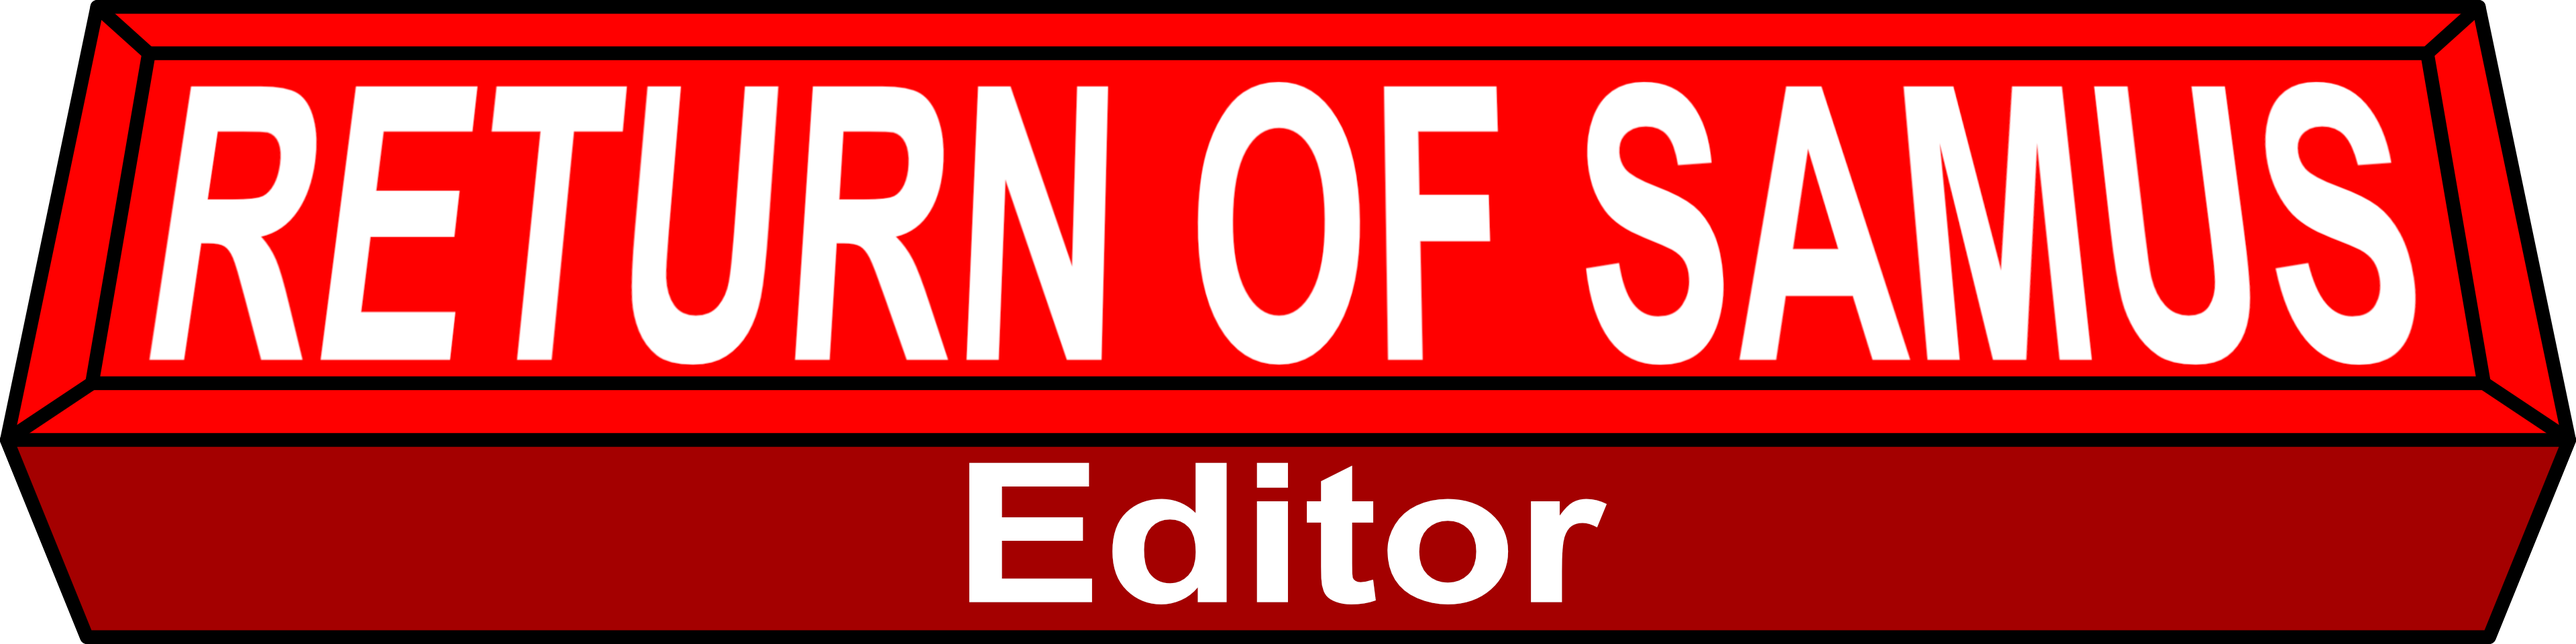
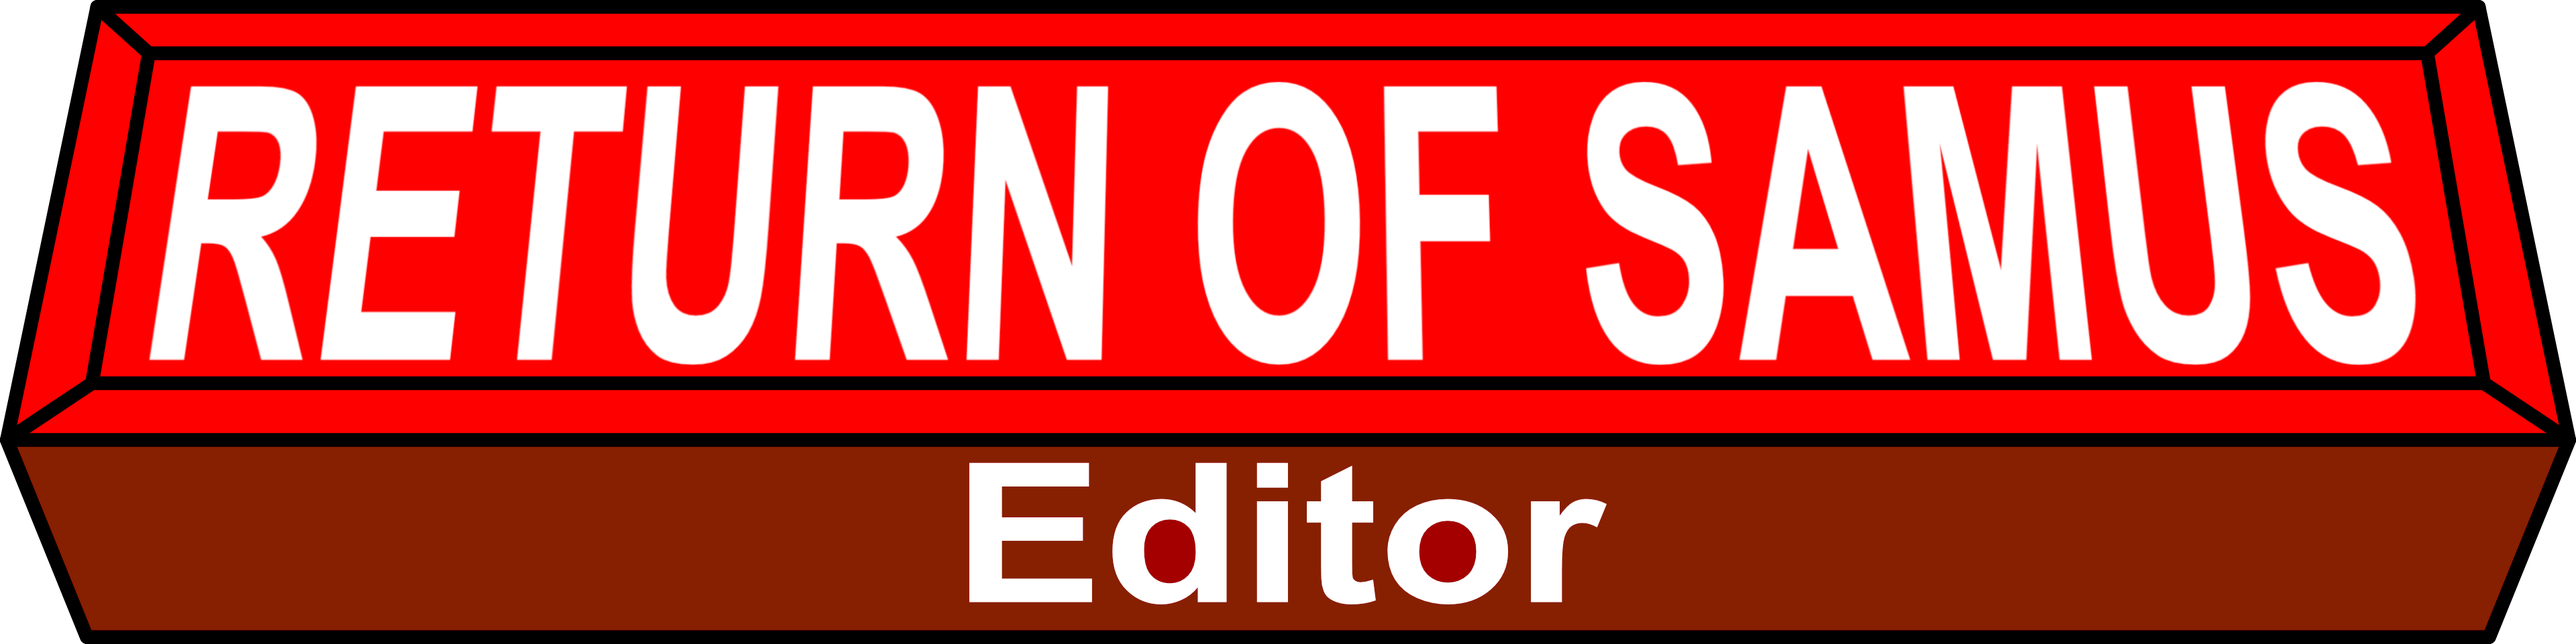
Add files via upload
made files add their name to the filename field on load, improved palette and general appearance.

Changed region(s): [[0.0, 0.6868, 1.0, 0.999]]

diff --git a/index.html b/index.html
@@ -17,14 +17,14 @@ body {
     <a href="https://liamnajor.github.io/ROSE-how-to"><img src="ROSE.png" id="icon" style="display: block;margin-left: auto;margin-right: auto;height: 70px"></a>
     <div id = "file manager" class="div" style = "position: absolute; top: 40px; left: 50px; border: 1px solid #000000; width: 329px; height: 276px;">
         <h2>File:</h2>
-        FileName:<textarea id = "filename"></textarea><br><br>Data
+        FileName:<textarea id = "filename" rows="1" cols="40"></textarea><br><br>Data
 <div id="divMain">
 </div><br>
         <input class="button" type = "button" id = "encode" value = "encode">
         <input class="button" type = "button" id = "decode" value = "decode" onclick = "decode()">        
         <input class="button" type = "button" id = "test" value = "play" onclick = "testhack()">
     </div>
-    <div class="div" style = "position: absolute; top: 330px; left: 50px; border: 1px solid #000000; width: 260px; height: 290px">
+    <div class="div" style = "position: absolute; top: 335px; left: 50px; border: 1px solid #000000; width: 260px; height: 290px">
     Bank:<select id = "bankselect">
         <option>9</option>
         <option>A</option>
@@ -34,7 +34,49 @@ body {
         <option>E</option>
         <option>F</option>
     </select><input class="button" type = "button" onClick="expandROM()" value="+"></input><br><canvas id = "edit" width = 256 height = 256></canvas></div>
-<div class="div" style = "position:absolute; top: 395px; right: 50px;border: 1px solid #000000; width: 260px; height: 170px" >Tileset:<select id = "tileset">
+
+<div id = "world" class="div" style = "display: block;margin-left: auto;margin-right: auto;border: 1px solid #000000; width: 260px; height: 295px">
+<br>    
+<canvas width = "256" height = "256" id = "roomedit"></canvas>
+    </div>
+
+ 
+    <div class="div" style = "position: absolute; right: 50px; top: 40px; border: 1px solid #000000; width: 286px; height: 350px">
+    <br>
+    Pointer: <textarea id = "pointers" cols="4"></textarea><br>
+    Scroll: <select id="scroll">
+<option value="00">Free Scroll</option>
+<option value="01">Stop Scrolling Right</option>
+<option value="02">Stop Scrolling Left</option>
+<option value="03">Vertical Shaft</option>
+<option value="04">Stop Scrolling Up</option>
+<option value="05">Stop Scrolling Up Right Corner</option>
+<option value="06">Stop Scrolling Up Left Corner</option>
+<option value="07">Vertical Shaft End Up</option>
+<option value="08">Stop Scrolling Down</option>
+<option value="09">Stop Scrolling Down Right</option>
+<option value="0a">Stop Scrolling Down Left</option>
+<option value="0b">Vertical Shaft End Down</option>
+<option value="0c">Hallway</option>
+<option value="0d">Hallway End Right</option>
+<option value="0e">Hallway End Left</option>
+<option value="0f">No Scroll</option></select><br>
+    Room Transition: <textarea id = "rtransition" cols="4"></textarea>
+    <br><br><b>Objects:</b><br>
+    enemy data pointer:<textarea id = "enemy-dat" cols="4"></textarea><br>
+    <input class = "buttonRight" type = "button" value = "delete object:" onclick="deleted()"><select id = "objselect">
+<option>0</option><option>1</option><option>2</option><option>3</option><option>4</option><option>5</option><option>6</option><option>7</option><option>8</option><option>9</option><option>10</option><option>11</option><option>12</option><option>13</option><option>14</option><option>15</option><!--<option>16</option><option>17</option><option>18</option><option>19</option><option>20</option><option>21</option><option>22</option><option>23</option><option>24</option><option>25</option><option>26</option><option>27</option><option>28</option><option>29</option><option>30</option><option>31</option><option>32</option>-->
+    </select><br><br>
+    <input class="buttonRight" type = "button" value = "View Object data" onclick="viewdat()">^<br>Mode: <div id="OBJData" style = "position: absolute; right: 0px; top: 220px; width: 200px; height: 64px">
+    </div><select id = "mode">
+    <option>Tile</option>
+    <option>Object</option>
+    <option>Samus</option>
+    </select><br>OBJ Type:<select id="OBJType"></select><br>OBJ ID:<textarea id="OBJID" rows="1" cols="2">00</textarea>
+    </div>
+    </div>
+
+<div class="div" style = "position:absolute; top: 410px; right: 50px;border: 1px solid #000000; width: 260px; height: 170px" >Tileset:<select id = "tileset">
         <option>9</option>
         <option>A</option>
         <option>B</option>
@@ -42,12 +84,7 @@ body {
         <option>D</option>
         <option>E</option>
         <option>F</option>
-    </select><br><canvas id = "tilesetimage" width = 256 height = 128></canvas></div>
-<div id = "world" class="div" style = "display: block;margin-left: auto;margin-right: auto;border: 1px solid #000000; width: 260px; height: 295px">
-<br>    
-<canvas width = "256" height = "256" id = "roomedit"></canvas>
-    </div>
-    
+    </select><br><canvas id = "tilesetimage" width = 256 height = 128></canvas></div> 
     
         <!--reference: http://upload.wikimedia.org/wikipedia/commons/9/93/Game_boy_pocket.png--><input class="button" type="button" id="showEmulator" value="Show Emulator" style="diplay:block; margin:auto" onclick = "showEmu()"></input>
       
@@ -55,7 +92,7 @@ body {
         <input class="button" type="button" value="Hide Emulator" style="margin:auto;" onclick = "hideEmu()"></input>
       <span id="on_off">OFF ! ! ON</span>
       
-      <input class="button" type="button" value="s" id="show" onclick="enableOnScreenButtons()" style="float: right; text-align: center;"><input class="button" type="button" value="h" id="hide" onclick="disableOnScreenButtons()" style="float: left; text-align: center;">
+      <input class="button" type="buttonRight" value="s" id="show" onclick="enableOnScreenButtons()" style="float: right; text-align: center;"><input class="button" type="button" value="h" id="hide" onclick="disableOnScreenButtons()" style="float: left; text-align: center;">
       <div id="screen_cover">
         <div id="canvas_container">
           <canvas id="mainCanvas">No Canvas Support</canvas>
@@ -101,42 +138,7 @@ body {
       </div>
    </div>
     
-    
-    <div class="div" style = "position: absolute; right: 50px; top: 40px; border: 1px solid #000000; width: 286px; height: 345px">
-    <br>
-    Pointer: <textarea id = "pointers"></textarea><br>
-    Scroll: <select id="scroll">
-<option value="00">Free Scroll</option>
-<option value="01">Stop Scrolling Right</option>
-<option value="02">Stop Scrolling Left</option>
-<option value="03">Vertical Shaft</option>
-<option value="04">Stop Scrolling Up</option>
-<option value="05">Stop Scrolling Up Right Corner</option>
-<option value="06">Stop Scrolling Up Left Corner</option>
-<option value="07">Vertical Shaft End Up</option>
-<option value="08">Stop Scrolling Down</option>
-<option value="09">Stop Scrolling Down Right</option>
-<option value="0a">Stop Scrolling Down Left</option>
-<option value="0b">Vertical Shaft End Down</option>
-<option value="0c">Hallway</option>
-<option value="0d">Hallway End Right</option>
-<option value="0e">Hallway End Left</option>
-<option value="0f">No Scroll</option></select><br>
-    Room Transition: <textarea id = "rtransition"></textarea>
-    <br><br><b>Objects:</b><br>
-    enemy data pointer:<textarea id = "enemy-dat"></textarea><br>
-    <input class = "button" type = "button" value = "delete object:" onclick="deleted()"><select id = "objselect">
-<option>0</option><option>1</option><option>2</option><option>3</option><option>4</option><option>5</option><option>6</option><option>7</option><option>8</option><option>9</option><option>10</option><option>11</option><option>12</option><option>13</option><option>14</option><option>15</option><!--<option>16</option><option>17</option><option>18</option><option>19</option><option>20</option><option>21</option><option>22</option><option>23</option><option>24</option><option>25</option><option>26</option><option>27</option><option>28</option><option>29</option><option>30</option><option>31</option><option>32</option>-->
-    </select><br><br>
-    <input class="button" type = "button" value = "View Object data" onclick="viewdat()">^<br>Mode: <div id="OBJData" style = "position: absolute; right: 0px; top: 220px; width: 200px; height: 64px">
-    </div><select id = "mode">
-    <option>Tile</option>
-    <option>Object</option>
-    <option>Samus</option>
-    </select><br>OBJ Type:<select id="OBJType"></select><br>OBJ ID:<textarea id="OBJID" rows="1" cols="2">00</textarea>
-    </div>
-    </div>
-
+   
 <script src="objects.js"></script>
 <script src="psuedoCollisions.js"></script>
     <script src="GB_Emu/js/other/mobile.js"></script>

diff --git a/styles.css b/styles.css
@@ -1,48 +1,63 @@
 .button {  
-  color: #FFFFFF;
-  background-color: #525E59;
-border-radius: 14px;
+  color: #1F1F4F;
+  background-color: #AAAA66;
+border-radius: 18px;
   text-align: center;
   margin: 12px auto 0 auto;
-  padding: 0px;
+  padding: 2px;
+  box-shadow: 0px 0px 2px #000, inset 0px 0px 2px #000;
+}
+.buttonRight {  
+  color: #9F9F9F;
+  background-color: #862000;
+border-radius: 18px;
+  text-align: center;
+  margin: 12px auto 0 auto;
+  padding: 2px;
+  box-shadow: 0px 0px 2px #000, inset 0px 0px 4px #000;
+
 }
 #File {  
-  color: #FFFFFF;
-  background-color: #525E59;
+  color: #9F9F9F;
+  background-color: #862000;
+  width: 95%;
 border-radius: 14px;
   text-align: center;
   margin: 12px auto 0 auto;
   padding: 0px;
+  box-shadow: 0px 0px 2px #000, inset 0px 0px 4px #000;
+
 }
 input[type=file]::file-selector-button {
-  color: #FFFFFF;
-  background-color: #525E59;
+  color: #1F1F4F;
+  background-color: #AAAA66;
+  box-shadow: 0px 0px 2px #000, inset 0px 0px 4px #000;
 
 }
 select {
-  color: #FFFFFF;
-  background-color: #525E59;
+  color: #1F1F4F;
+  background-color: #AAAA66;
 border-radius: 14px;
   text-align: center;
   margin: 12px auto 0 auto;
   padding: 0px;
+  box-shadow: 0px 0px 2px #000, inset 0px 0px 1px #000;
+
 }
 textarea {  
-  width: 15%;
   height: 13px;
   border-color:#000000;
   border: 2px;
-  background-color: #525E59;
-  color: #FFFFFF;
+  background-color: #AAA666;
+  color: #1F1F4F;
   font-size: 11px;
   resize: none;
   top:0px;
-  border-radius: 14px;
+  border-radius: 17px;
   text-align: center;
   margin: 12px auto 0 auto;
   padding: 0px;
-  text-shadow: 0px 0px 2px #000;
-  box-shadow: 0px 0px 2px #000, inset 0px 0px 2px #000;
+  box-shadow: 0px 0px 2px #000, inset 0px 0px 4px #000;
 }
 canvas {
 display: block;
@@ -52,13 +67,12 @@ margin-right: auto;
 .div {
   border-color:#000000;
   border: 2px;
-  background-color: #AA0000;
-  color: #FFFFFF;
+  background-color: #666666;
+  color: #AFBF9F;
   top:0px;
-  border-radius: 14px;
+  border-radius: 16px;
   margin: 12px auto 0 auto;
-  padding: 0px;
-  text-shadow: 0px 0px 2px #000;
+  padding: 4px;
   box-shadow: 0px 0px 2px #000, inset 0px 0px 2px #000;
 
 }

diff --git a/data.js b/data.js
@@ -129,6 +129,7 @@ var disableOnScreenButtons = function(){
     document.getElementById("show").style.display = "none"
     hideEmu()
 var decode = function(){
+document.getElementById("filename").innerHTML= document.getElementById("File").files[0].name
     /*if(localstoragesupported === true){
     var ROM = localStorage.getItem('ROM');
     if(ROM === null || ROM === undefined || hexout != ""){
@@ -182,6 +183,15 @@ c+=1
         }
 
 }
+    tiles0=byteArray[parseInt("4E6F", 16)]
+    tiles1=byteArray[parseInt("4E70", 16)]
+
+    metatiles0=byteArray[parseInt("4E71", 16)] 
+    metatiles1=byteArray[parseInt("4E72", 16)] 
+
+    collision0=byteArray[parseInt("4E73", 16)] 
+    collision1= byteArray[parseInt("4E74", 16)]	
+    tilebank=byteArray[parseInt("4E6E", 16)]
 }
 var encode = function(output){
     var value = ""
